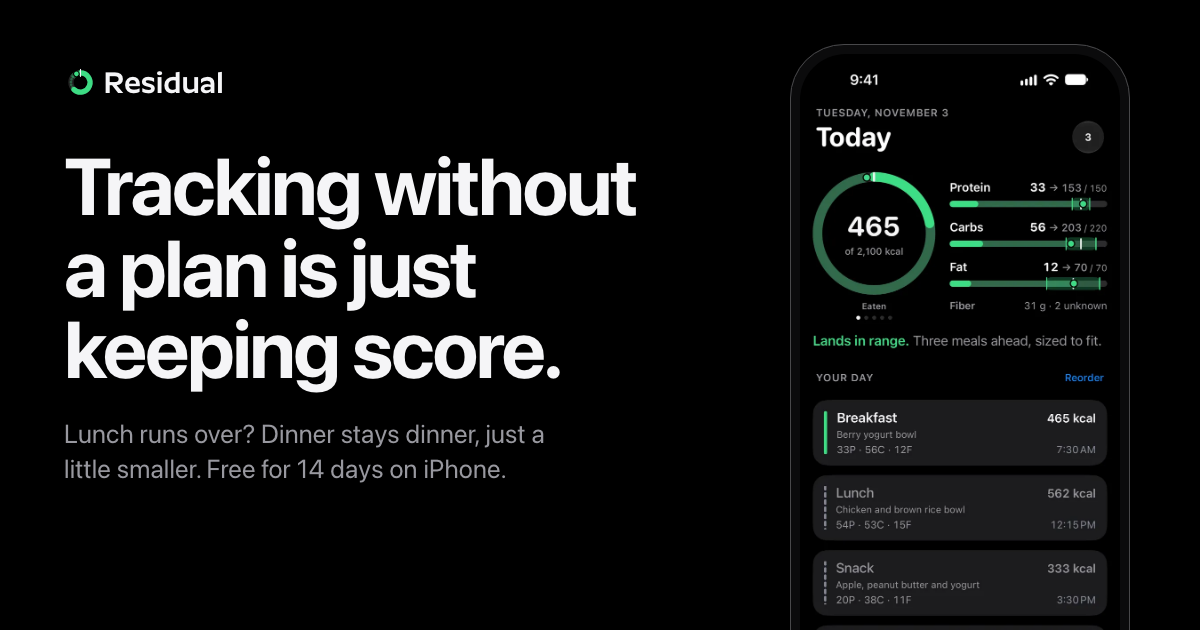
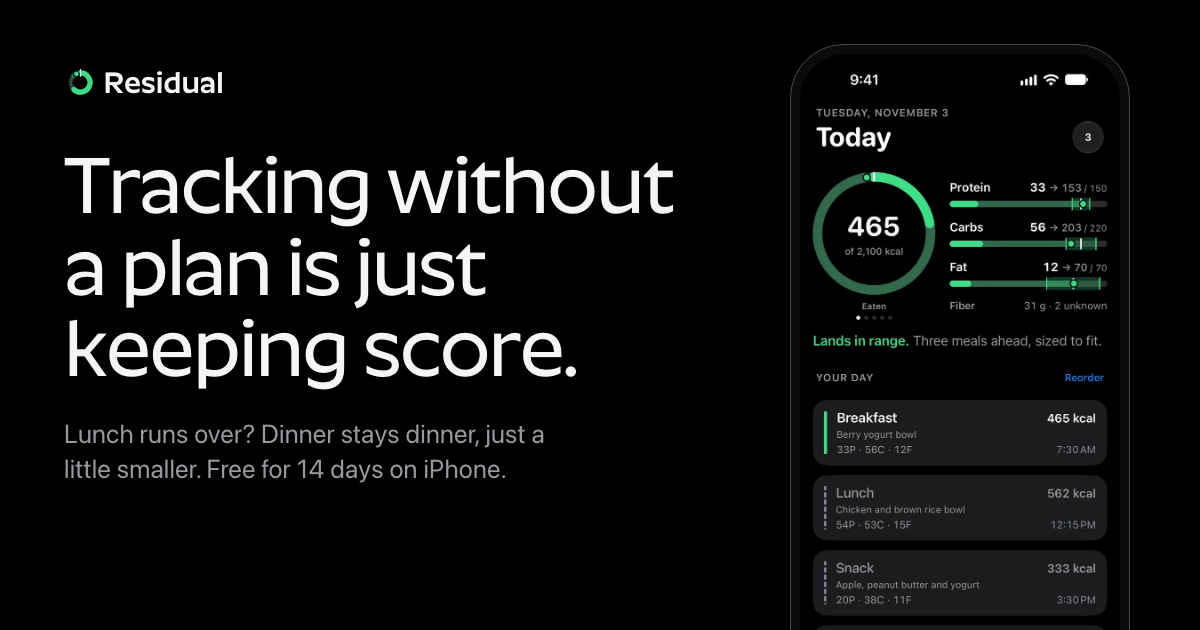
the headings are in Roundo again, matching the wordmark (2026-11-03, Clark: "They were matching our wordmark and we put that font back for the headings"). The rebuild of 7bb4c81 had moved them to SF Rounded. Weight 500 as they were before, its font file restored; body text stays SF and the numbers S

Changed region(s): [[0.0617, 0.2413, 0.555, 0.6333]]

diff --git a/src/styles/global.css b/src/styles/global.css
@@ -2,9 +2,10 @@
    DESIGN.md §3.1), a light and a dark value, and the page follows the visitor's appearance the way the app
    follows the iPhone's. Data has color: eaten is solid green, the plan a ghost of it, amber and red only when
    the day is off. Controls have one color, the key blue. Type is the system's: SF, with SF Rounded on the big
-   titles and the numbers the way Fitness and Health set theirs. Roundo is the wordmark alone. */
+   numbers the way Fitness and Health set theirs. Roundo is the wordmark and the headings (2026-11-03, Clark: they match the wordmark). */
 
-/* The wordmark, self-hosted (ITF Free Font License allows it; the file is the official one, unmodified). */
+/* The wordmark and the headings, self-hosted (ITF Free Font License allows it; the files are the official ones, unmodified). */
+@font-face { font-family: 'Roundo'; src: url('/fonts/roundo-500.woff2') format('woff2'); font-weight: 500; font-style: normal; font-display: swap; }
 @font-face { font-family: 'Roundo'; src: url('/fonts/roundo-600.woff2') format('woff2'); font-weight: 600; font-style: normal; font-display: swap; }
 
 :root {
@@ -39,6 +40,7 @@
   --font-text: -apple-system, BlinkMacSystemFont, 'SF Pro Text', 'Segoe UI', Roboto, 'Helvetica Neue', Arial, sans-serif;
   --font-round: ui-rounded, 'SF Pro Rounded', -apple-system, BlinkMacSystemFont, 'SF Pro Display', 'Segoe UI', Roboto, 'Helvetica Neue', Arial, sans-serif;
   --font-mark: 'Roundo', ui-rounded, -apple-system, BlinkMacSystemFont, sans-serif;
+  --font-head: var(--font-mark);
 
   --step-small: 0.875rem;
   --step-body: clamp(1.0625rem, 1rem + 0.2vw, 1.1875rem);
@@ -104,10 +106,10 @@ a { color: inherit; }
 :focus-visible { outline: 3px solid var(--key); outline-offset: 3px; }
 
 h1, h2, h3 { font-weight: 700; text-wrap: balance; hyphens: none; }
-.display, .head { font-family: var(--font-round); font-weight: 700; }
+.display, .head { font-family: var(--font-head); font-weight: 500; }
 .display { font-size: var(--step-display); line-height: 1.02; letter-spacing: -0.028em; }
 .head { font-size: var(--step-head); line-height: 1.05; letter-spacing: -0.026em; }
-.title { font-family: var(--font-round); font-size: var(--step-title); line-height: 1.15; letter-spacing: -0.02em; font-weight: 700; }
+.title { font-family: var(--font-head); font-size: var(--step-title); line-height: 1.15; letter-spacing: -0.02em; font-weight: 500; }
 .lead { font-size: var(--step-lead); line-height: 1.35; letter-spacing: -0.01em; max-width: 40ch; }
 .small { font-size: var(--step-small); line-height: 1.45; }
 .muted { color: var(--label2); }
@@ -151,7 +153,7 @@ p + p { margin-top: 0.9em; }
 .doc { padding-top: 8rem; padding-bottom: 6rem; }
 .doc > * { max-width: 46rem; margin-inline: auto; }
 .doc .lead { margin-top: 1.5rem; }
-.doc h2 { font-family: var(--font-round); font-size: var(--step-lead); letter-spacing: -0.015em; margin-top: 2.5rem; margin-bottom: 0.6rem; }
+.doc h2 { font-family: var(--font-head); font-weight: 500; font-size: var(--step-lead); letter-spacing: -0.015em; margin-top: 2.5rem; margin-bottom: 0.6rem; }
 .doc__list, .doc ul, .doc ol { display: grid; gap: 0.8rem; padding: 0; list-style: none; }
 /* The Terms number their lists and refer to items by number, so ordered lists keep their numerals. */
 .doc ol { list-style: decimal; padding-left: 1.6em; }

diff --git a/README.md b/README.md
@@ -13,7 +13,7 @@ page and the universal-link association file in `public/`.
   src/scripts/demo-day.js  the demo's targets, logged breakfast, lunch, and meals ahead
   src/assets/shots/     real simulator captures, each in light and dark: scripts/screenshots/capture.sh in the app's repo
   src/site.ts           the App Store id, titles, description, feature list: change these before launch
-  public/fonts/         Roundo for the wordmark, self-hosted (the official Fontshare file, unmodified; the ITF Free Font License allows it)
+  public/fonts/         Roundo for the wordmark and headings, self-hosted (the official Fontshare files, unmodified; the ITF Free Font License allows it)
   public/llms.txt       a plain summary of Residual for answer engines and AI assistants; keep it true to the app
   public/.well-known/apple-app-site-association   tells iOS that /s links open Residual
   public/s/index.html   the share page, for when the app isn't installed (its script is public/s/share.js)
